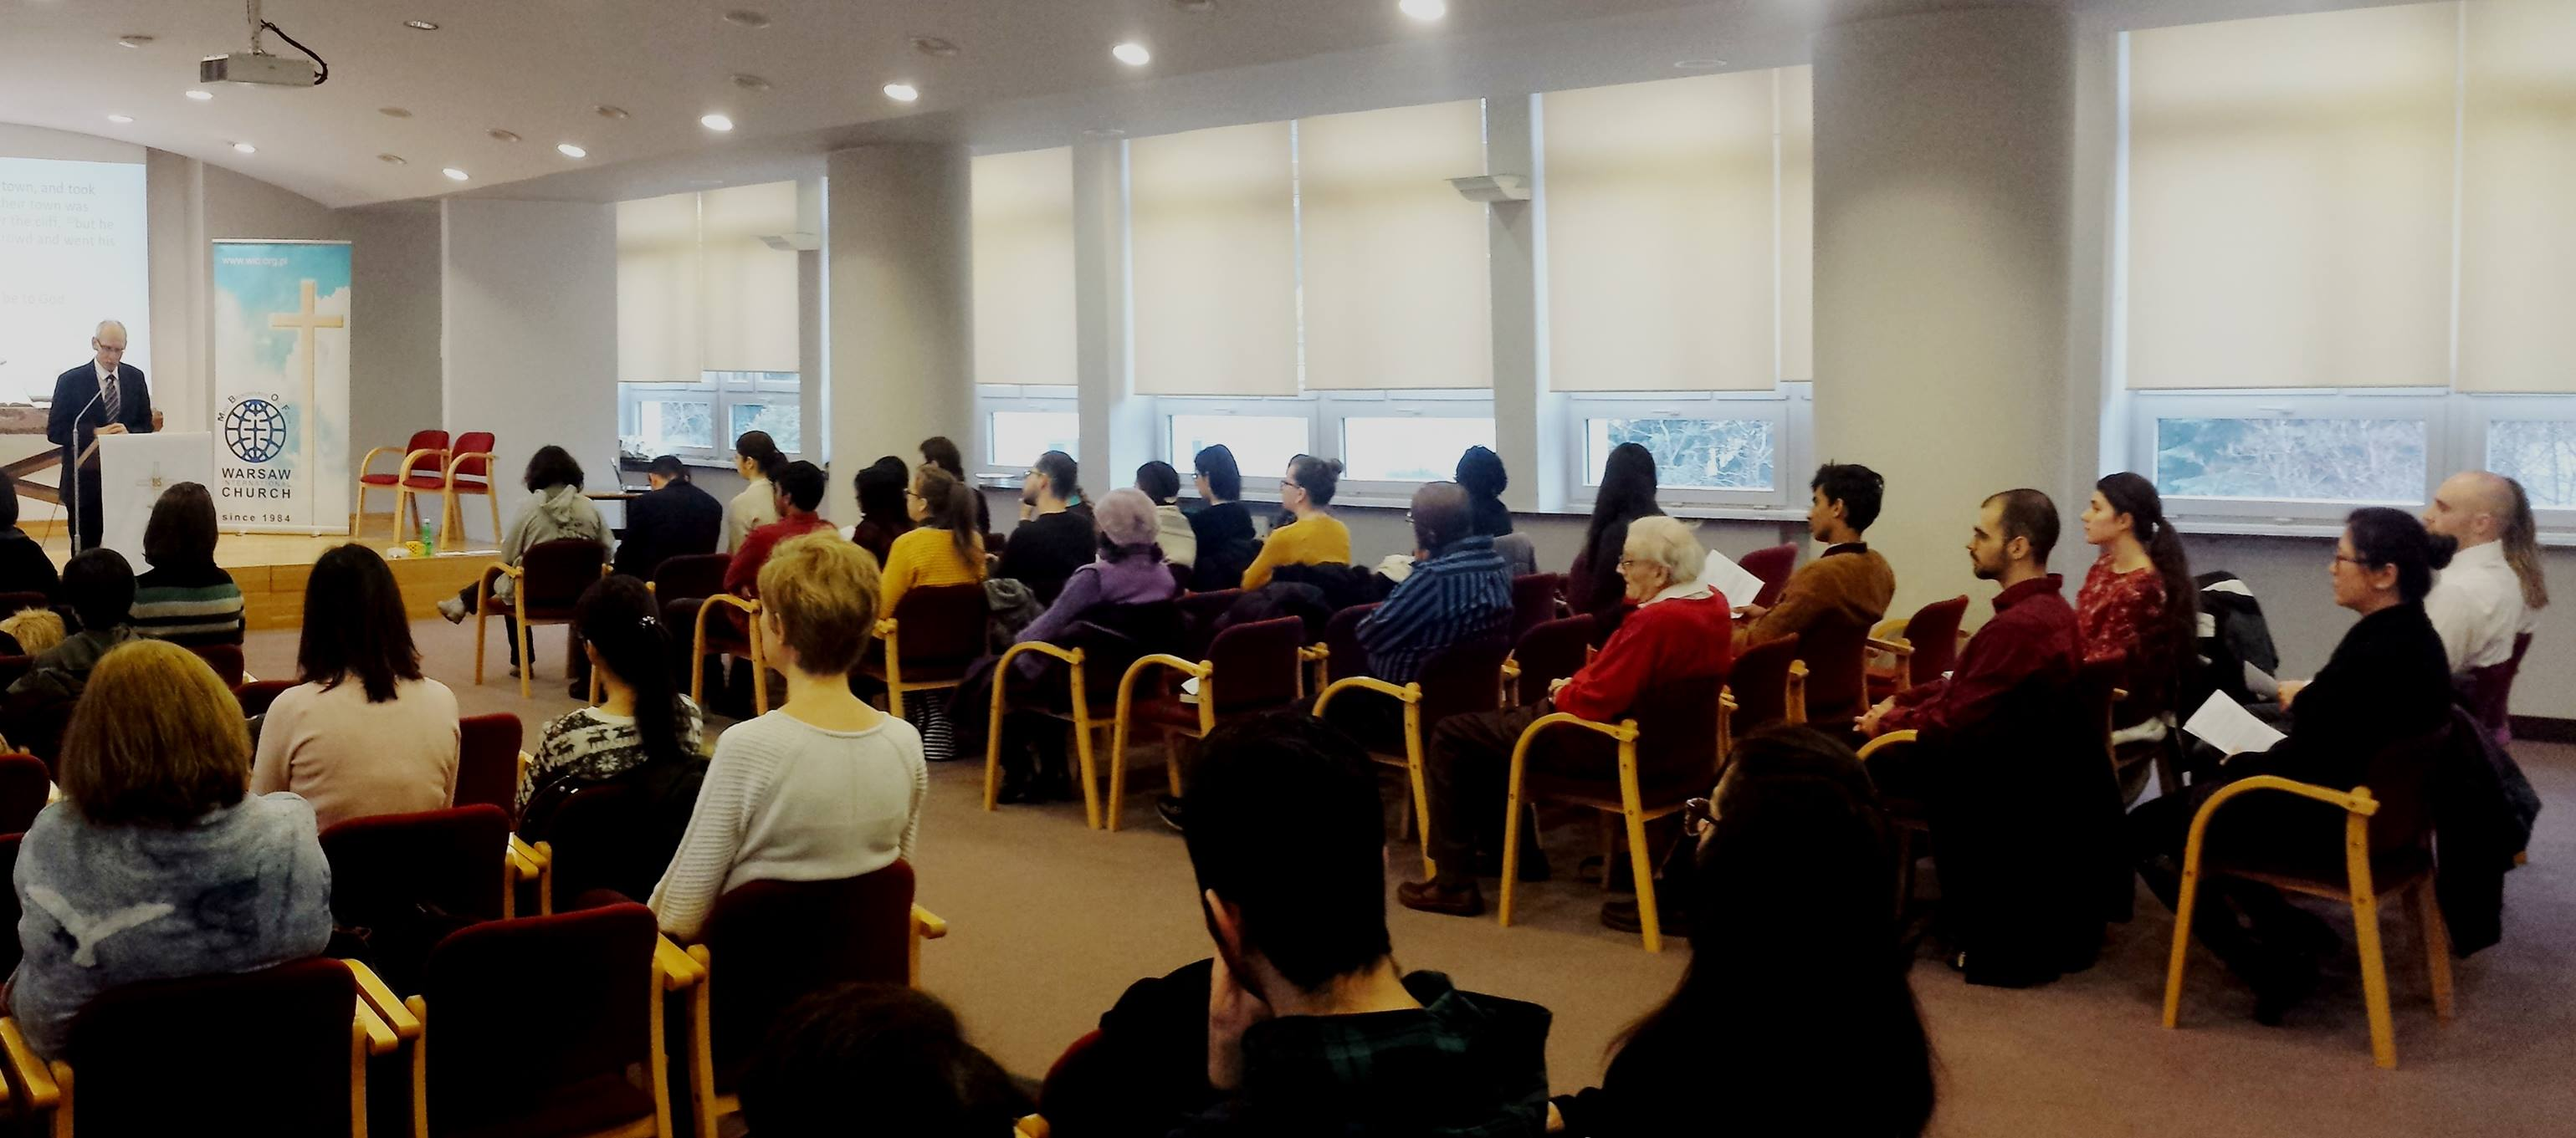
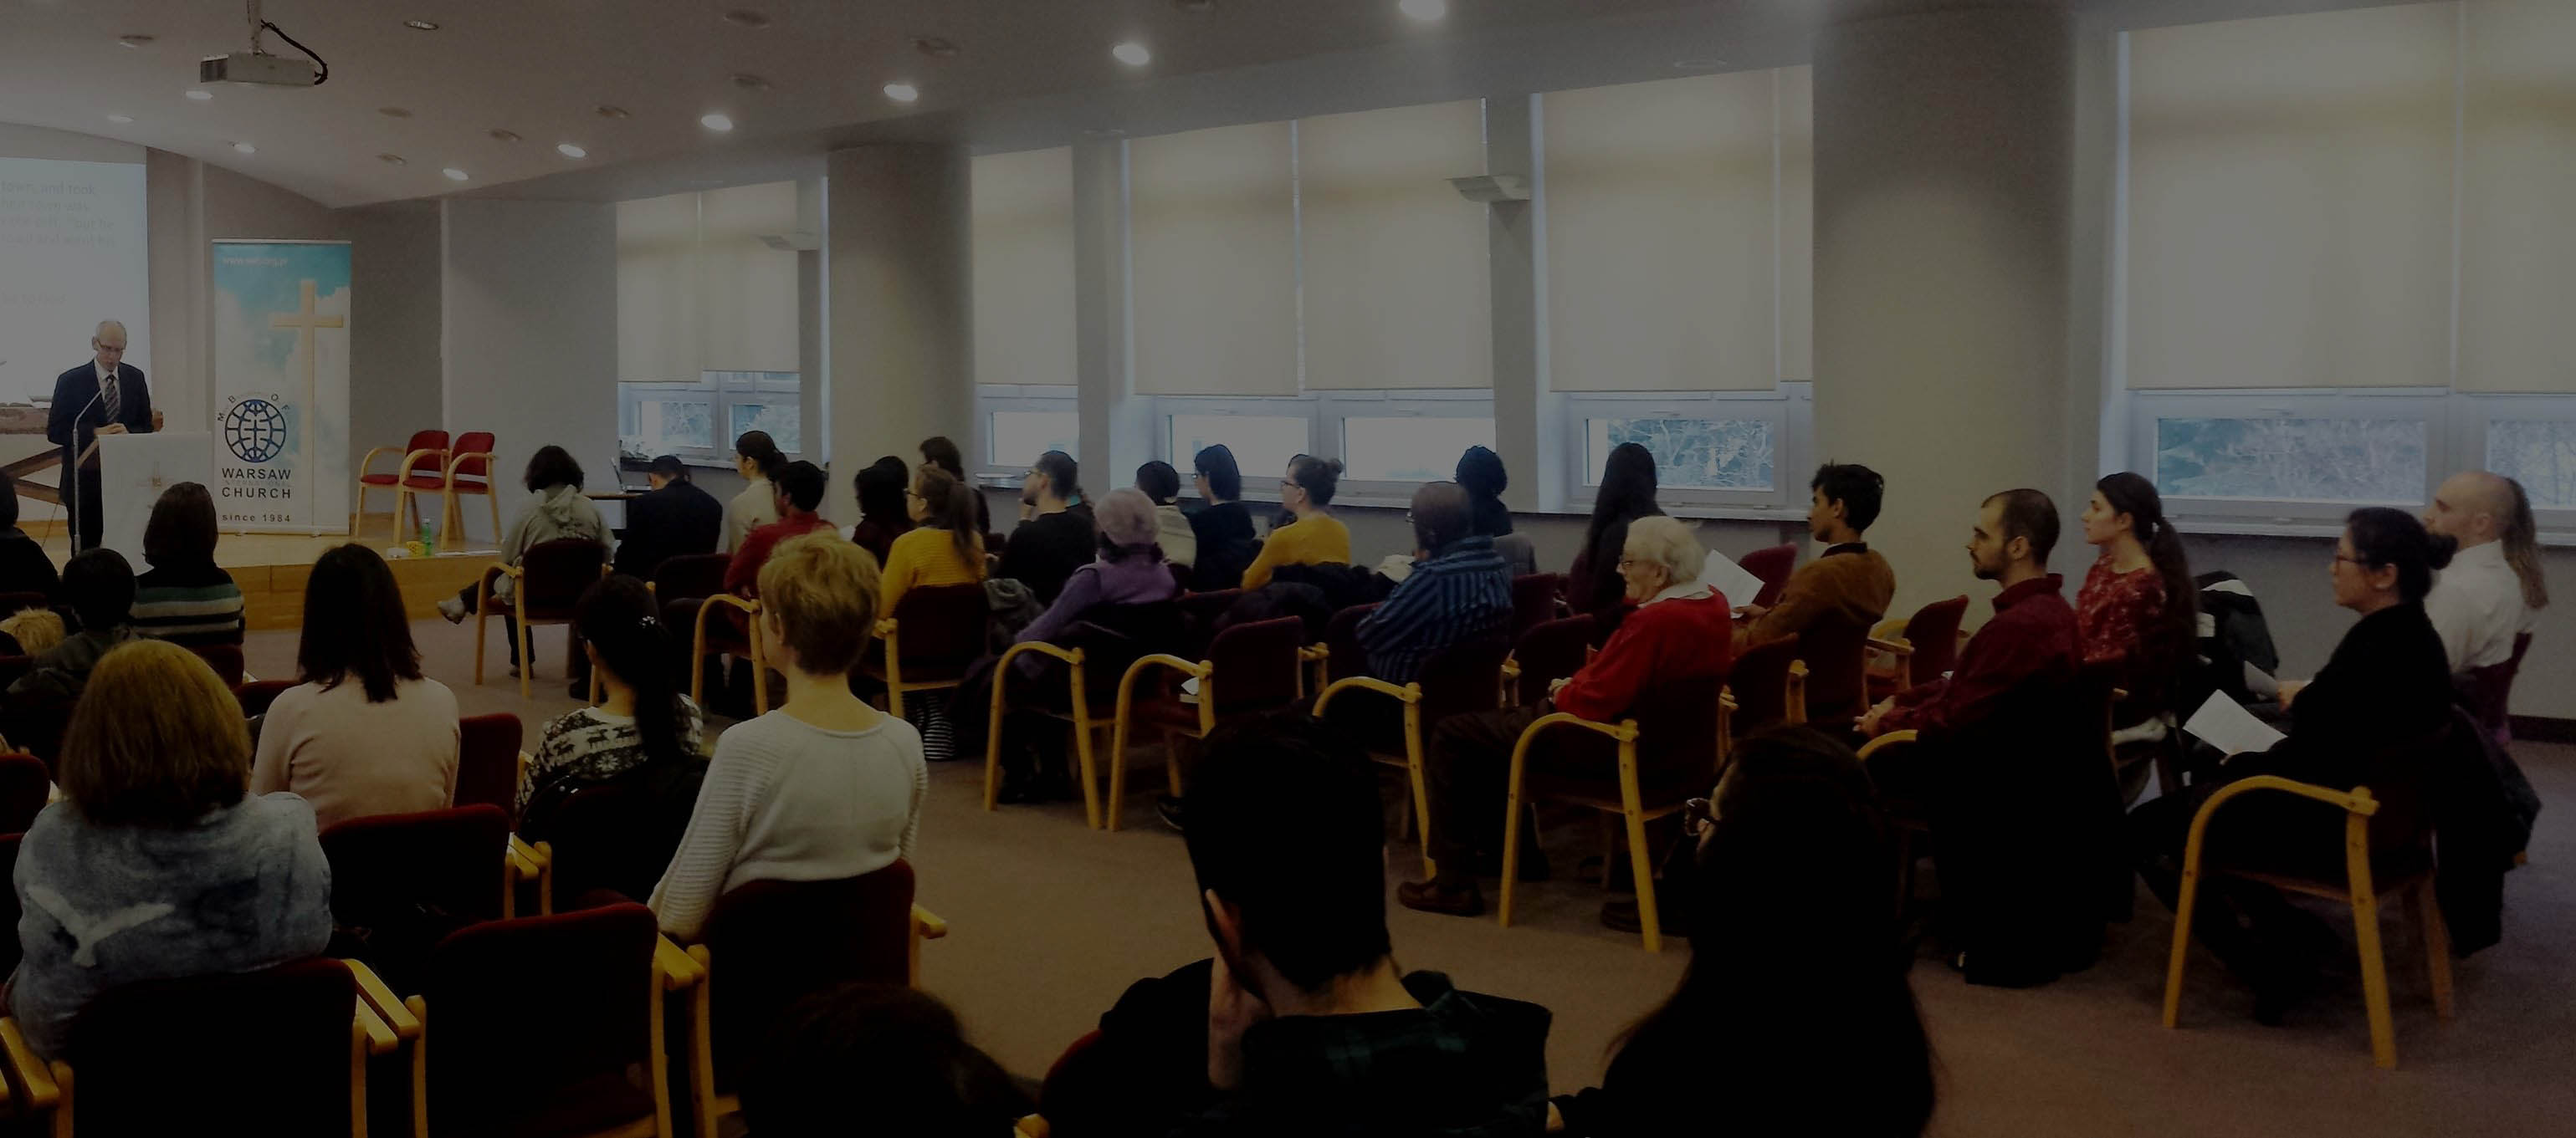
6th commit

diff --git a/index.html b/index.html
@@ -101,8 +101,8 @@
 								<!-- <img src="./images/logo.PNG" style="margin: 0%; border: 2px solid black; float: left; position: absolute; left: 60px; top: -140px; max-width: 500px; width: 250px;" /> -->
 								<br>
 								<!-- <h1 style="font-size: 40px">Welcome to Warsaw International Church</h1> -->
-								<h1 style="font-size: 40px" class="text-dark">Many Backgrounds, One Faith</h1>
-								<h4 class="container">The Mission of Warsaw International Church is to bring together
+								<h1 style="font-size: 40px" class="text-white">Many Backgrounds, One Faith</h1>
+								<h4 class="container text-white">The Mission of Warsaw International Church is to bring together
 									Christians
 									of diverse backgrounds to express & nurture their faith through
 									English-language worship, fellowship, education and community
